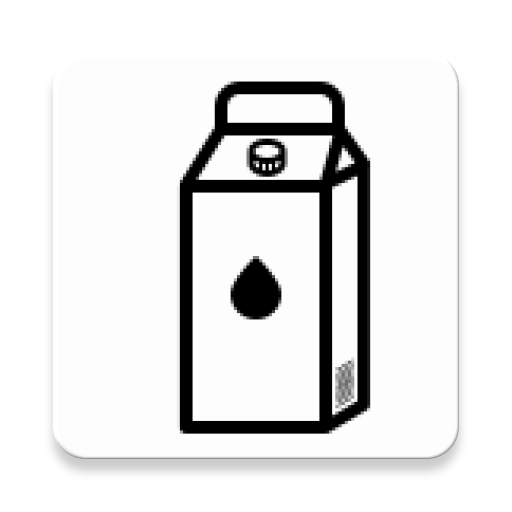
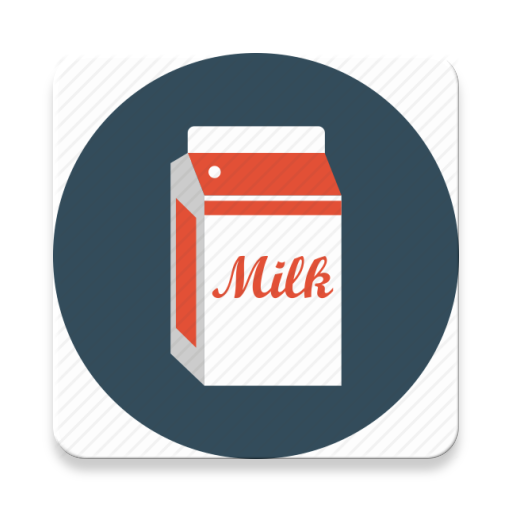
Added Pictures to the products in tablelayout

diff --git a/MyApplication/app/src/main/java/maximedelange/calorieschecker/Controllers/ProductController.java b/MyApplication/app/src/main/java/maximedelange/calorieschecker/Controllers/ProductController.java
@@ -5,6 +5,7 @@ import java.util.ArrayList;
 import maximedelange.calorieschecker.Domain.CategoryType;
 import maximedelange.calorieschecker.Domain.Product;
 import maximedelange.calorieschecker.Domain.ProductType;
+import maximedelange.calorieschecker.R;
 
 /**
  * Created by M on 12/14/2016.
@@ -31,31 +32,31 @@ public class ProductController {
     public ArrayList<Product> createProductData(){
         this.products = new ArrayList<>();
 
-        products.add(new Product("Bruin bolletje", 100, ProductType.Bread, CategoryType.Breakfast));
-        products.add(new Product("Wit bolletje", 120, ProductType.Bread, CategoryType.Breakfast));
-        products.add(new Product("Bruin snee brood", 100, ProductType.Bread, CategoryType.Breakfast));
-        products.add(new Product("Wit snee brood", 100, ProductType.Bread, CategoryType.Breakfast));
-        products.add(new Product("Bier donker", 150, ProductType.Alcohol, CategoryType.Dinner));
-        products.add(new Product("Bier zoet", 120, ProductType.Alcohol, CategoryType.Dinner));
-        products.add(new Product("Glas melk", 50, ProductType.Dairy, CategoryType.Lunch));
-        products.add(new Product("Kom yoghurt", 70, ProductType.Dairy, CategoryType.Dinner));
-        products.add(new Product("Toetje", 120, ProductType.Dairy, CategoryType.Dinner));
-        products.add(new Product("Pindakaas", 100, ProductType.SandwichFilling, CategoryType.Breakfast));
-        products.add(new Product("Chocolade pasta", 100, ProductType.SandwichFilling, CategoryType.Breakfast));
-        products.add(new Product("Kaas", 100, ProductType.SandwichFilling, CategoryType.Breakfast));
-        products.add(new Product("Ham", 100, ProductType.SandwichFilling, CategoryType.Breakfast));
-        products.add(new Product("Kipfilet", 100, ProductType.SandwichFilling, CategoryType.Breakfast));
-        products.add(new Product("Aardappel", 400, ProductType.Potatoes, CategoryType.Dinner));
-        products.add(new Product("Hamburger vlees", 100, ProductType.Meat, CategoryType.Dinner));
-        products.add(new Product("Spagetti", 100, ProductType.Pasta, CategoryType.Dinner));
-        products.add(new Product("Courgette", 100, ProductType.Vegetables, CategoryType.Dinner));
-        products.add(new Product("Diepvries groente", 100, ProductType.Vegetables, CategoryType.Dinner));
-        products.add(new Product("Tomaten", 100, ProductType.Vegetables, CategoryType.Dinner));
-        products.add(new Product("Sla", 100, ProductType.Vegetables, CategoryType.Dinner));
-        products.add(new Product("Appel", 100, ProductType.Fruit, CategoryType.Lunch));
-        products.add(new Product("Banaan", 100, ProductType.Fruit, CategoryType.Lunch));
-        products.add(new Product("Mandarijn", 100, ProductType.Fruit, CategoryType.Lunch));
-        products.add(new Product("Kipfilet blokjes/heel", 100, ProductType.Chicken, CategoryType.Dinner));
+        products.add(new Product("Bruin bolletje", 100, ProductType.Bread, CategoryType.Breakfast, R.mipmap.bun));
+        products.add(new Product("Wit bolletje", 120, ProductType.Bread, CategoryType.Breakfast, R.mipmap.bun));
+        products.add(new Product("Bruin snee brood", 100, ProductType.Bread, CategoryType.Breakfast, R.mipmap.bread));
+        products.add(new Product("Wit snee brood", 100, ProductType.Bread, CategoryType.Breakfast, R.mipmap.bread));
+        products.add(new Product("Bier donker", 150, ProductType.Alcohol, CategoryType.Dinner, R.mipmap.beerdark));
+        products.add(new Product("Bier zoet", 120, ProductType.Alcohol, CategoryType.Dinner, R.mipmap.beerlight));
+        products.add(new Product("Glas melk", 50, ProductType.Dairy, CategoryType.Lunch, R.mipmap.milk));
+        products.add(new Product("Kom yoghurt", 70, ProductType.Dairy, CategoryType.Dinner, R.mipmap.yogurt));
+        products.add(new Product("Toetje", 120, ProductType.Dairy, CategoryType.Dinner, R.mipmap.dessert));
+        products.add(new Product("Pindakaas", 100, ProductType.SandwichFilling, CategoryType.Breakfast, R.mipmap.peanutbutter));
+        products.add(new Product("Chocolade pasta", 100, ProductType.SandwichFilling, CategoryType.Breakfast, R.mipmap.chocolatespread));
+        products.add(new Product("Kaas", 100, ProductType.SandwichFilling, CategoryType.Breakfast, R.mipmap.cheese));
+        products.add(new Product("Ham", 100, ProductType.SandwichFilling, CategoryType.Breakfast, R.mipmap.ham));
+        products.add(new Product("Kipfilet", 100, ProductType.SandwichFilling, CategoryType.Breakfast, R.mipmap.chicken));
+        products.add(new Product("Aardappel", 400, ProductType.Potatoes, CategoryType.Dinner, R.mipmap.potato));
+        products.add(new Product("Hamburger", 100, ProductType.Meat, CategoryType.Dinner, R.mipmap.hamburger));
+        products.add(new Product("Spagetti", 100, ProductType.Pasta, CategoryType.Dinner, R.mipmap.spagetti));
+        products.add(new Product("Courgette", 100, ProductType.Vegetables, CategoryType.Dinner, R.mipmap.cucumber));
+        products.add(new Product("Diepvries groente", 100, ProductType.Vegetables, CategoryType.Dinner, R.mipmap.vegetable));
+        products.add(new Product("Tomaten", 100, ProductType.Vegetables, CategoryType.Dinner, R.mipmap.tomato));
+        products.add(new Product("Sla", 100, ProductType.Vegetables, CategoryType.Dinner, R.mipmap.lettuce));
+        products.add(new Product("Appel", 100, ProductType.Fruit, CategoryType.Lunch, R.mipmap.apple));
+        products.add(new Product("Banaan", 100, ProductType.Fruit, CategoryType.Lunch, R.mipmap.banana));
+        products.add(new Product("Mandarijn", 100, ProductType.Fruit, CategoryType.Lunch, R.mipmap.orange));
+        products.add(new Product("Kipfilet blok/heel", 100, ProductType.Chicken, CategoryType.Dinner, R.mipmap.chicken));
 
         return products;
     }

diff --git a/MyApplication/app/src/main/java/maximedelange/calorieschecker/Screens/DinnerScreen.java b/MyApplication/app/src/main/java/maximedelange/calorieschecker/Screens/DinnerScreen.java
@@ -1,6 +1,9 @@
 package maximedelange.calorieschecker.Screens;
 
+import android.graphics.Bitmap;
+import android.graphics.BitmapFactory;
 import android.graphics.Color;
+import android.graphics.Typeface;
 import android.os.Bundle;
 import android.support.design.widget.FloatingActionButton;
 import android.support.design.widget.Snackbar;
@@ -26,6 +29,8 @@ public class DinnerScreen extends AppCompatActivity {
     // GUI Components
     private TextView textArray;
     private ImageView image;
+    private Bitmap bitmap;
+    private Bitmap resizedbitmap;
 
     @Override
     protected void onCreate(Bundle savedInstanceState) {
@@ -50,22 +55,30 @@ public class DinnerScreen extends AppCompatActivity {
                 tableRow = new TableRow(this);
                 tableRow.setId(product.getID() + 1);
                 tableRow.setBackgroundColor(Color.WHITE);
-                tableRow.setLayoutParams(new Toolbar.LayoutParams(100, 100));
+                tableRow.setLayoutParams(new Toolbar.LayoutParams(300, 300));
 
                 // Create content for tablerows
                 textArray = new TextView(this);
 
                 // Add image for each row
                 image = new ImageView(this);
-                image.setImageResource(R.mipmap.ic_launcher);
+                //image.setPadding(100, 100, 100, 100);
+
+                bitmap = BitmapFactory.decodeResource(getResources(), product.getImage());
+                int width=400;
+                int height=400;
+                resizedbitmap = Bitmap.createScaledBitmap(bitmap, width, height, true);
+                image.setImageBitmap(resizedbitmap);
                 tableRow.addView(image);
 
                 textArray.setText(product.getName());
+                textArray.setTextSize(22);
+                textArray.setTypeface(null, Typeface.BOLD);
                 textArray.setTextColor(Color.BLACK);
-                textArray.setPadding(100, 100, 100, 100);
+                textArray.setPadding(0, 150, 0, 100);
                 tableRow.addView(textArray);
 
-                tableLayout.addView(tableRow, new TableLayout.LayoutParams(100, 100));
+                tableLayout.addView(tableRow, new TableLayout.LayoutParams(200, 200));
             }
         }
     }

diff --git a/MyApplication/app/src/main/java/maximedelange/calorieschecker/Screens/BreakfastScreen.java b/MyApplication/app/src/main/java/maximedelange/calorieschecker/Screens/BreakfastScreen.java
@@ -1,6 +1,9 @@
 package maximedelange.calorieschecker.Screens;
 
+import android.graphics.Bitmap;
+import android.graphics.BitmapFactory;
 import android.graphics.Color;
+import android.graphics.Typeface;
 import android.media.Image;
 import android.os.Bundle;
 import android.support.v7.app.AppCompatActivity;
@@ -29,6 +32,8 @@ public class BreakfastScreen extends AppCompatActivity {
     // GUI Components
     private TextView textArray;
     private ImageView image;
+    private Bitmap bitmap;
+    private Bitmap resizedbitmap;
 
     @Override
     protected void onCreate(Bundle savedInstanceState) {
@@ -53,22 +58,30 @@ public class BreakfastScreen extends AppCompatActivity {
                 tableRow = new TableRow(this);
                 tableRow.setId(product.getID() + 1);
                 tableRow.setBackgroundColor(Color.WHITE);
-                tableRow.setLayoutParams(new Toolbar.LayoutParams(100, 100));
+                tableRow.setLayoutParams(new Toolbar.LayoutParams(300, 300));
 
                 // Create content for tablerows
                 textArray = new TextView(this);
 
                 // Add image for each row
                 image = new ImageView(this);
-                image.setImageResource(R.mipmap.ic_launcher);
+                //image.setPadding(100, 100, 100, 100);
+
+                bitmap = BitmapFactory.decodeResource(getResources(), product.getImage());
+                int width=400;
+                int height=400;
+                resizedbitmap = Bitmap.createScaledBitmap(bitmap, width, height, true);
+                image.setImageBitmap(resizedbitmap);
                 tableRow.addView(image);
 
                 textArray.setText(product.getName());
+                textArray.setTextSize(22);
+                textArray.setTypeface(null, Typeface.BOLD);
                 textArray.setTextColor(Color.BLACK);
-                textArray.setPadding(100, 100, 100, 100);
+                textArray.setPadding(0, 150, 0, 100);
                 tableRow.addView(textArray);
 
-                tableLayout.addView(tableRow, new TableLayout.LayoutParams(100, 100));
+                tableLayout.addView(tableRow, new TableLayout.LayoutParams(200, 200));
             }
         }
     }

diff --git a/MyApplication/app/src/main/java/maximedelange/calorieschecker/Screens/LunchScreen.java b/MyApplication/app/src/main/java/maximedelange/calorieschecker/Screens/LunchScreen.java
@@ -1,15 +1,13 @@
 package maximedelange.calorieschecker.Screens;
 
+import android.graphics.Bitmap;
+import android.graphics.BitmapFactory;
 import android.graphics.Color;
+import android.graphics.Typeface;
 import android.os.Bundle;
-import android.support.design.widget.FloatingActionButton;
-import android.support.design.widget.Snackbar;
 import android.support.v7.app.AppCompatActivity;
-import android.support.v7.widget.LinearLayoutCompat;
 import android.support.v7.widget.Toolbar;
-import android.view.View;
 import android.widget.ImageView;
-import android.widget.LinearLayout;
 import android.widget.TableLayout;
 import android.widget.TableRow;
 import android.widget.TextView;
@@ -28,6 +26,8 @@ public class LunchScreen extends AppCompatActivity {
     // GUI Components
     private TextView textArray;
     private ImageView image;
+    private Bitmap bitmap;
+    private Bitmap resizedbitmap;
 
     @Override
     protected void onCreate(Bundle savedInstanceState) {
@@ -58,16 +58,23 @@ public class LunchScreen extends AppCompatActivity {
 
                 // Add image for each row
                 image = new ImageView(this);
-                image.setPadding(100, 100, 100, 100);
-                image.setImageResource(R.mipmap.milk);
+                //image.setPadding(100, 100, 100, 100);
+
+                bitmap = BitmapFactory.decodeResource(getResources(), product.getImage());
+                int width=400;
+                int height=400;
+                resizedbitmap = Bitmap.createScaledBitmap(bitmap, width, height, true);
+                image.setImageBitmap(resizedbitmap);
                 tableRow.addView(image);
 
                 textArray.setText(product.getName());
+                textArray.setTextSize(22);
+                textArray.setTypeface(null, Typeface.BOLD);
                 textArray.setTextColor(Color.BLACK);
-                textArray.setPadding(100, 150, 100, 100);
+                textArray.setPadding(0, 150, 0, 100);
                 tableRow.addView(textArray);
 
-                tableLayout.addView(tableRow, new TableLayout.LayoutParams(100, 100));
+                tableLayout.addView(tableRow, new TableLayout.LayoutParams(200, 200));
             }
         }
     }

diff --git a/MyApplication/app/src/main/java/maximedelange/calorieschecker/Domain/Product.java b/MyApplication/app/src/main/java/maximedelange/calorieschecker/Domain/Product.java
@@ -1,5 +1,7 @@
 package maximedelange.calorieschecker.Domain;
 
+import android.media.Image;
+
 /**
  * Created by M on 12/14/2016.
  */
@@ -12,14 +14,16 @@ public class Product {
     private int calories;
     private ProductType productType;
     private CategoryType categoryType;
+    private int image;
 
     // Constructor
-    public Product(String name, int calories, ProductType productType, CategoryType categoryType){
+    public Product(String name, int calories, ProductType productType, CategoryType categoryType, int image){
         setID(++count);
         this.name = name;
         this.calories = calories;
         this.productType = productType;
         this.categoryType = categoryType;
+        this.image = image;
     }
 
     // Methods
@@ -45,6 +49,10 @@ public class Product {
 
     public void setID(int ID){
         this.ID = ID;
+    }
+
+    public int getImage(){
+        return this.image;
     }
 
     @Override
